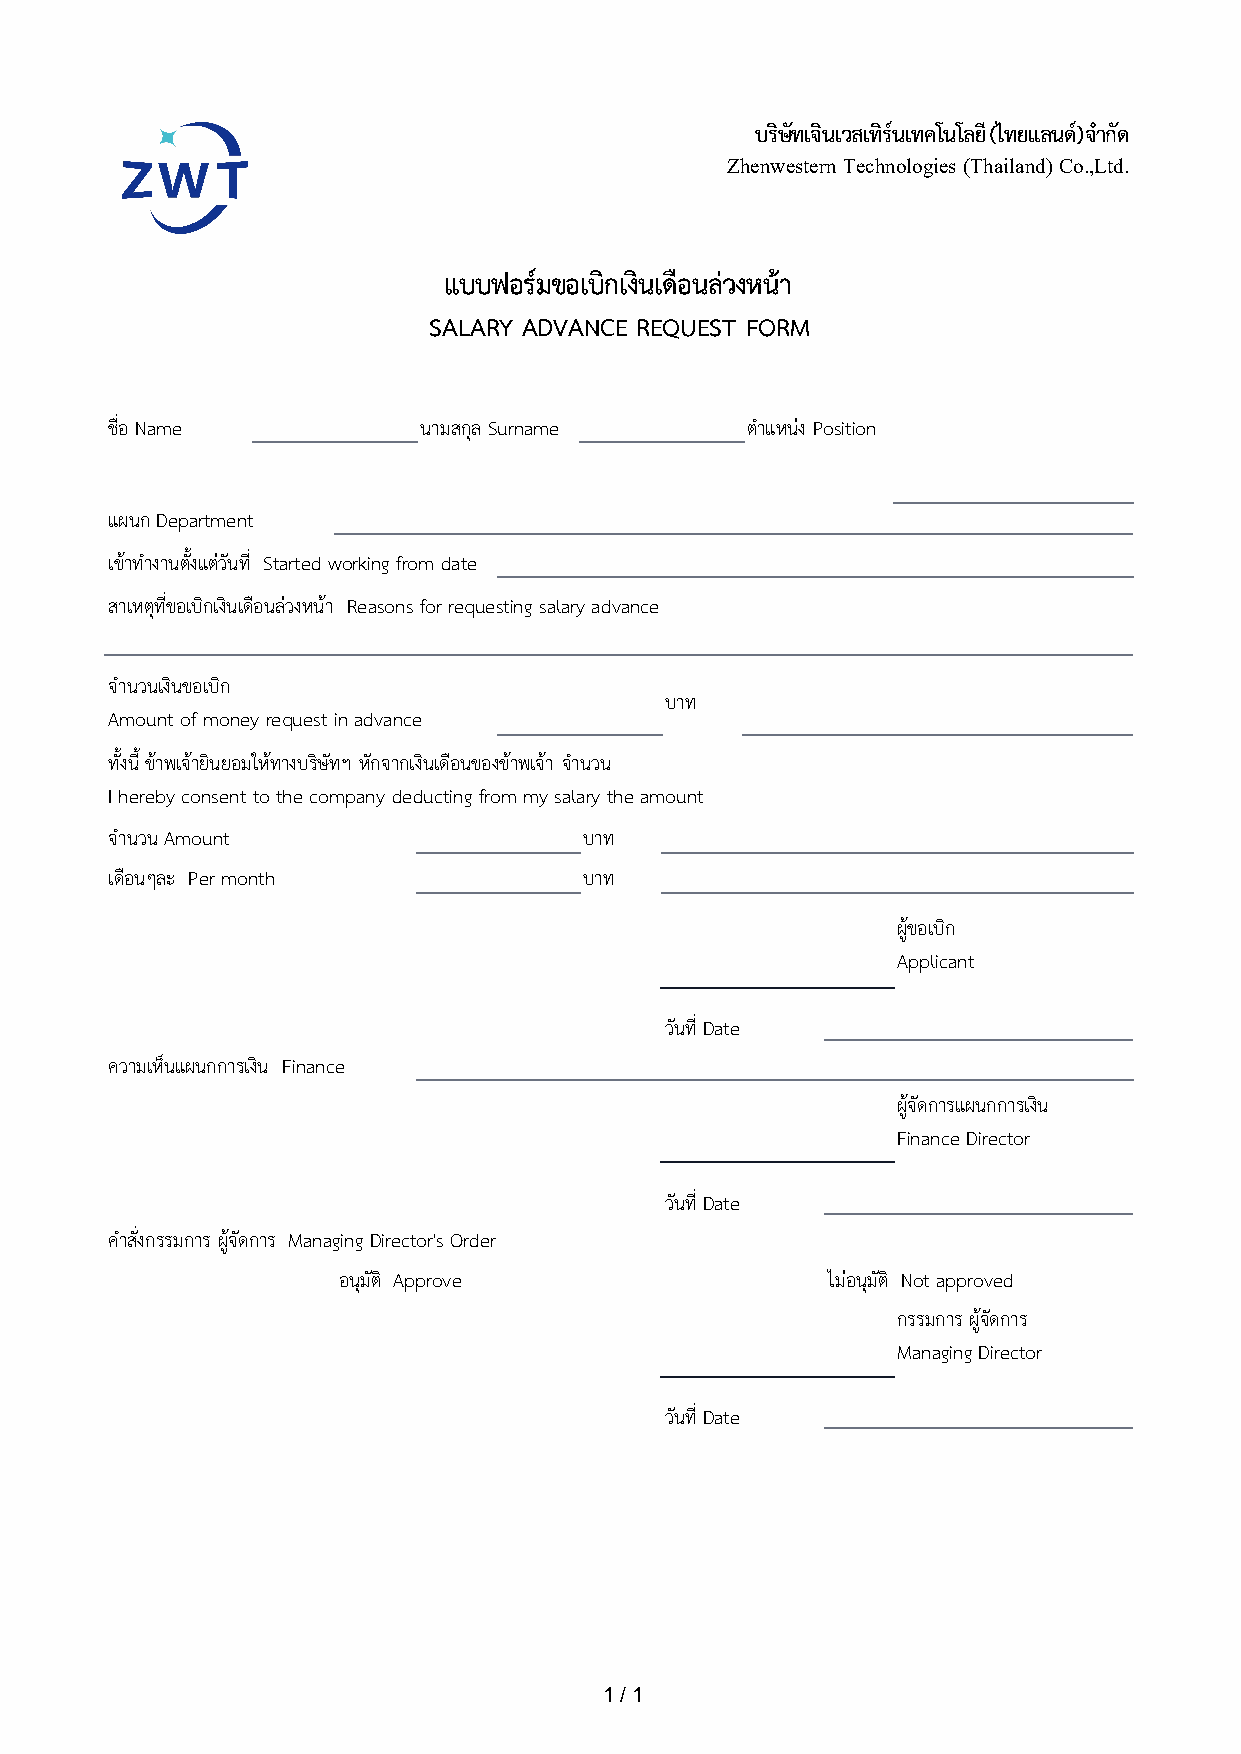
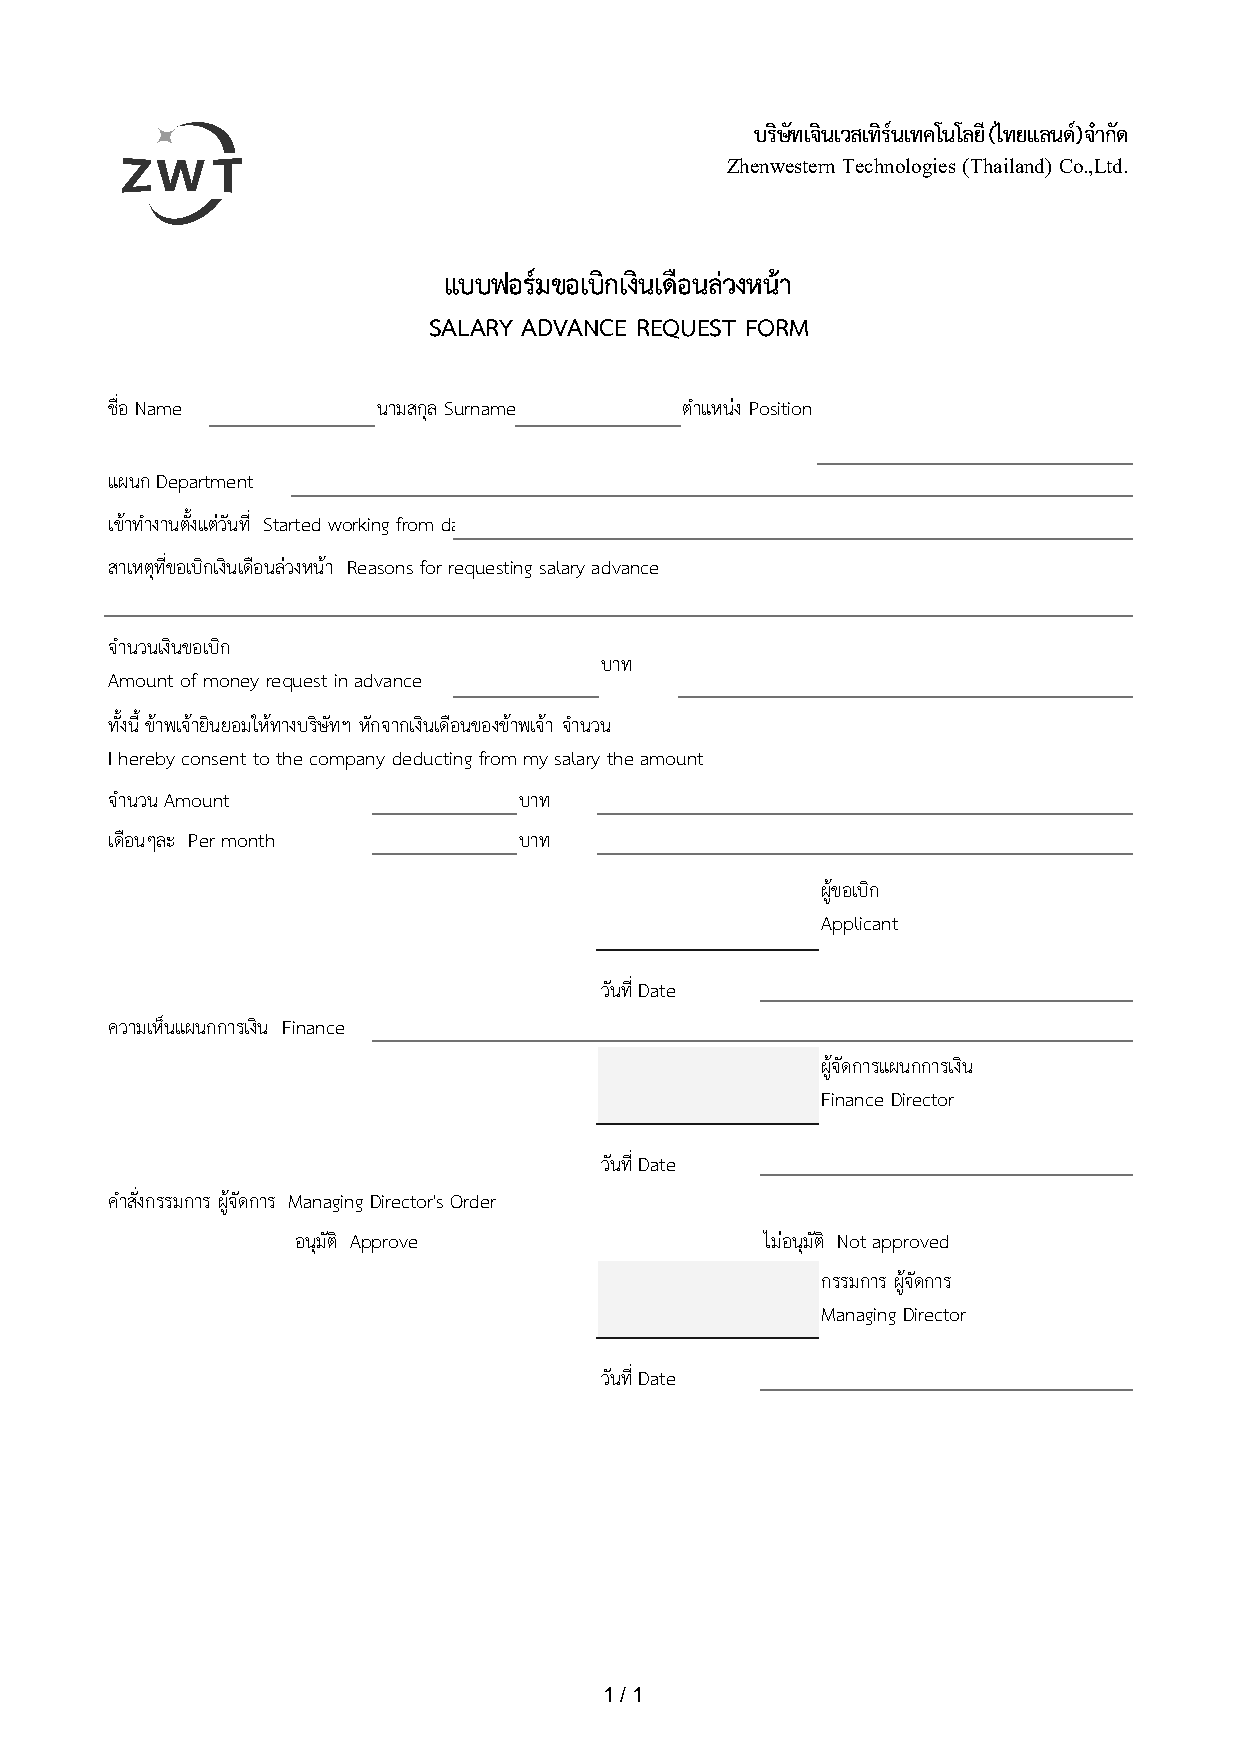
fix(signature): 维护页预览与实际盖章位置对齐，底图改为可重出并钉住来源
工资预支底版在 2026-08-04 重制了四轮（缩左边距、抬首行、重并 H37:J37）。
预览的 leftPercent 跟着更新了，bottomPercent 没有，于是维护页里的签名比
实际出票低约 12.9pt（4.5mm）；三张底图也都停在 08-04 01:46 那一版。

预览是用户唯一能"看见"签名会盖在哪儿的地方。它和后端坐标脱节时，用户按
预览调好的缩放比，出票盖出来是另一个位置，而两边各自都不报错。

- bottomPercent 按 pdf_layout.SIGNATURE_BOXES 重算（34.69→36.22、22.49→23.99）
- 底图改由 scripts/build_signature_preview_backgrounds.py 从当前底版渲染，
  并把源底版的 sha256 记进 signature-preview-backgrounds.json；底图本身
  没法自证新旧（PNG 编码不保证可复现），记来源才能把过期变成可检测的事实
- 渲染改成灰度 + 关抗锯齿：线稿表单压缩率极高，三张由 18/33/56KB 降到
  15.6/21.4/29.2KB，线条反而更锐利
- test_signature_preview_alignment 把前端的四组百分比钉在后端 SIGNATURE_BOX
  上（容差 0.5pt），并校验底图不陈旧。反向验证过：把 bottomPercent 改回
  出事前的值，报出 -12.63pt (-4.45mm)

diff --git a/zwt-finance-system/frontend/src/modules/administration/SignaturePreviewModal.tsx b/zwt-finance-system/frontend/src/modules/administration/SignaturePreviewModal.tsx
@@ -67,12 +67,18 @@ const TEMPLATE_CONFIGS: Record<
       heightPercent: 5.46,
     },
   },
+  // 工资预支底版在 2026-08-04 重制了四轮（缩左边距、抬首行、重并 H37:J37）。
+  // leftPercent 当时跟着更新了，bottomPercent 没有，于是预览里的签名比实际出票
+  // 低了约 12.9pt（4.5mm）。现按 pdf_layout.SIGNATURE_BOXES 重算：
+  //   finance (294.88, 304.91, 90, 28) -> 304.91/841.85 = 36.219%
+  //   md      (294.82, 201.96, 90, 28) -> 201.96/841.85 = 23.990%
+  // tests/test_signature_preview_alignment.py 会把这四组数钉在后端坐标上。
   salary_advance: {
     bgImage: "/salary-advance-template-bg.png",
     title: "工资预支单凭证 (财务负责人签名位置)",
     sigBox: {
       leftPercent: 49.54,
-      bottomPercent: 34.69,
+      bottomPercent: 36.22,
       widthPercent: 15.12,
       heightPercent: 3.33,
     },
@@ -82,7 +88,7 @@ const TEMPLATE_CONFIGS: Record<
     title: "工资预支单凭证 (财务负责人签名位置)",
     sigBox: {
       leftPercent: 49.54,
-      bottomPercent: 34.69,
+      bottomPercent: 36.22,
       widthPercent: 15.12,
       heightPercent: 3.33,
     },
@@ -92,7 +98,7 @@ const TEMPLATE_CONFIGS: Record<
     title: "工资预支单凭证 (董事/总经理签名位置)",
     sigBox: {
       leftPercent: 49.53,
-      bottomPercent: 22.49,
+      bottomPercent: 23.99,
       widthPercent: 15.12,
       heightPercent: 3.33,
     },

diff --git a/zwt-finance-system/backend/tests/test_signature_preview_alignment.py b/zwt-finance-system/backend/tests/test_signature_preview_alignment.py
@@ -1,0 +1,127 @@
+"""签名维护页的预览，必须和真正出票时的盖章位置一致。
+
+预览是用户唯一能"看见"签名会盖在哪儿的地方。它一旦和后端 ReportLab 的坐标脱节，
+用户按预览调好的缩放比，出票时盖出来是另一个位置——而且两边各自都不报错。
+
+2026-08-04 就这么出过一次：工资预支底版当天重制四轮，前端把 leftPercent 更新到了
+新坐标，bottomPercent 忘了改，预览里的签名比实际出票低约 12.9pt（4.5mm）。
+
+前端写的是百分比（相对底图），后端写的是 PDF 点。同一份坐标存在两个地方、
+两种单位，就一定会漂——所以在这里把它们钉在一起。
+"""
+
+from __future__ import annotations
+
+import hashlib
+import json
+import re
+from pathlib import Path
+
+import pytest
+
+from app.modules.salary_advance import pdf_layout as salary_layout
+from app.modules.tax_invoice.document_generator import SIGNATURE_BOX as TAX_INV_BOX
+from app.modules.wht.document_generator import PDF_SIGNATURE_BOX as WHT_BOX
+
+BACKEND_ROOT = Path(__file__).resolve().parents[1]
+FRONTEND_ROOT = BACKEND_ROOT.parent / "frontend"
+PREVIEW_TSX = (
+    FRONTEND_ROOT / "src" / "modules" / "administration" / "SignaturePreviewModal.tsx"
+)
+PUBLIC_DIR = FRONTEND_ROOT / "public"
+BACKGROUND_MANIFEST = PUBLIC_DIR / "signature-preview-backgrounds.json"
+TEMPLATE_DIR = BACKEND_ROOT / "app" / "assets" / "templates"
+
+# 三份底版都是 A4，前端按同一个页面尺寸换算百分比。
+PAGE_WIDTH, PAGE_HEIGHT = 595.25, 841.85
+
+# 允许的偏差。前端只写两位小数，0.01pp 本身就值 0.06pt/0.08pt；
+# 0.5pt(0.18mm) 以内属于写法精度，超过就是真的对不上了。
+TOLERANCE_PT = 0.5
+
+# 前端的 usage 名 -> 后端那个签名框 (x, y, 宽, 高)，单位 PDF 点。
+EXPECTED_BOXES: dict[str, tuple[float, float, float, float]] = {
+    "wht": WHT_BOX,
+    "tax_inv": TAX_INV_BOX,
+    # 通用 salary_advance 预览的是财务位（与 SignaturePreviewModal 的标题一致）。
+    "salary_advance": salary_layout.SIGNATURE_BOXES["finance"],
+    "salary_advance_finance": salary_layout.SIGNATURE_BOXES["finance"],
+    "salary_advance_md": salary_layout.SIGNATURE_BOXES["md"],
+}
+
+_ENTRY = re.compile(
+    r"(?P<usage>\w+):\s*\{\s*"
+    r"bgImage:.*?"
+    r"sigBox:\s*\{\s*"
+    r"leftPercent:\s*(?P<left>[\d.]+),\s*"
+    r"bottomPercent:\s*(?P<bottom>[\d.]+),\s*"
+    r"widthPercent:\s*(?P<width>[\d.]+),\s*"
+    r"heightPercent:\s*(?P<height>[\d.]+),?\s*\}",
+    re.DOTALL,
+)
+
+
+def _frontend_boxes() -> dict[str, dict[str, float]]:
+    source = PREVIEW_TSX.read_text(encoding="utf-8")
+    found = {
+        match.group("usage"): {
+            key: float(match.group(key))
+            for key in ("left", "bottom", "width", "height")
+        }
+        for match in _ENTRY.finditer(source)
+    }
+    assert found, (
+        f"没能从 {PREVIEW_TSX.name} 里解析出任何 sigBox。"
+        "改了 TEMPLATE_CONFIGS 的写法就要同步改这里的正则——"
+        "解析不到会让这条测试静默失效。"
+    )
+    return found
+
+
+def test_preview_covers_every_signature_usage() -> None:
+    """前端少配一个 usage，那个单据的预览就会退化成默认模板，必须拦住。"""
+    missing = sorted(set(EXPECTED_BOXES) - set(_frontend_boxes()))
+    assert not missing, f"SignaturePreviewModal 缺这些 usage 的预览配置：{missing}"
+
+
+@pytest.mark.parametrize("usage", sorted(EXPECTED_BOXES))
+def test_preview_box_matches_backend_stamp_box(usage: str) -> None:
+    box = _frontend_boxes()[usage]
+    x, y, width, height = EXPECTED_BOXES[usage]
+    for label, actual_pt, expected_pt in (
+        ("left", box["left"] / 100 * PAGE_WIDTH, x),
+        ("bottom", box["bottom"] / 100 * PAGE_HEIGHT, y),
+        ("width", box["width"] / 100 * PAGE_WIDTH, width),
+        ("height", box["height"] / 100 * PAGE_HEIGHT, height),
+    ):
+        drift = actual_pt - expected_pt
+        assert abs(drift) <= TOLERANCE_PT, (
+            f"{usage} 的预览 {label} 与后端盖章框差 {drift:+.2f}pt "
+            f"({drift * 25.4 / 72:+.2f}mm)：\n"
+            f"  预览 {actual_pt:.2f}pt / 后端 {expected_pt:.2f}pt\n"
+            f"  应写 {expected_pt / (PAGE_WIDTH if label in ('left', 'width') else PAGE_HEIGHT) * 100:.2f}"
+        )
+
+
+def test_preview_backgrounds_are_rendered_from_the_current_plates() -> None:
+    """底图是底版的一张照片，底版重制后不重出就会静默过期。
+
+    底图本身没法自证新旧（PNG 编码不保证可复现），所以记的是源底版的 sha256。
+    """
+    assert BACKGROUND_MANIFEST.is_file(), (
+        f"缺 {BACKGROUND_MANIFEST.name}；"
+        "跑 scripts/build_signature_preview_backgrounds.py 生成。"
+    )
+    manifest = json.loads(BACKGROUND_MANIFEST.read_text(encoding="utf-8"))
+    stale: list[str] = []
+    for png_name, entry in manifest["backgrounds"].items():
+        assert (PUBLIC_DIR / png_name).is_file(), f"底图 {png_name} 不存在"
+        plate = TEMPLATE_DIR / entry["source"]
+        actual = hashlib.sha256(plate.read_bytes()).hexdigest()
+        if actual != entry["sourceSha256"]:
+            stale.append(f"{png_name}（源 {entry['source']} 已变）")
+    assert not stale, (
+        "这些签名预览底图是用旧底版渲染的：" + "、".join(stale) + "\n"
+        "重制过底版就要重出底图："
+        "python ..\\scripts\\build_signature_preview_backgrounds.py"
+    )

diff --git a/zwt-finance-system/scripts/build_signature_preview_backgrounds.py b/zwt-finance-system/scripts/build_signature_preview_backgrounds.py
@@ -1,0 +1,115 @@
+r"""把三份 PDF 底版渲染成签名预览用的底图 PNG，并记下各自的源底版 sha256。
+
+    cd zwt-finance-system\backend
+    .\.venv\Scripts\python.exe ..\scripts\build_signature_preview_backgrounds.py
+
+为什么要有清单文件：底图是"底版的一张照片"，底版一重制它就过期，但过期的底图
+看上去完全正常——只是签名画在了错的位置上。2026-08-04 就这么出过一次：底版当天
+重制了四轮，底图还停在凌晨那一版，于是维护页预览里的签名比实际出票低了 4.5mm。
+把源底版的 sha 写进 signature-preview-backgrounds.json，
+tests/test_signature_preview_alignment.py 就能把这种漂移变成一条红测试。
+
+渲染尺寸固定 150 DPI（A4 → 1241x1754），与首版底图一致；预览是按百分比定位的，
+换尺寸不会影响签名落点，但换了会让 git diff 变成整张图重写。
+"""
+
+from __future__ import annotations
+
+import argparse
+import hashlib
+import json
+from pathlib import Path
+
+BACKEND_ROOT = Path(__file__).resolve().parents[1] / "backend"
+TEMPLATE_DIR = BACKEND_ROOT / "app" / "assets" / "templates"
+PUBLIC_DIR = Path(__file__).resolve().parents[1] / "frontend" / "public"
+MANIFEST = PUBLIC_DIR / "signature-preview-backgrounds.json"
+
+RENDER_DPI = 150
+
+# 底图名 -> 源底版。工资预支的两个角色共用同一张底图（同一页上下两个签名位）。
+SOURCES: dict[str, str] = {
+    "wht-template-bg.png": "WHT-Template.pdf",
+    "tax-inv-template-bg.png": "TAX-INV-Template.pdf",
+    "salary-advance-template-bg.png": "Salary-Advance-Template.pdf",
+}
+
+
+def sha256_of(path: Path) -> str:
+    return hashlib.sha256(path.read_bytes()).hexdigest()
+
+
+def render(pdf_path: Path, png_path: Path) -> tuple[int, int]:
+    import pypdfium2
+
+    document = pypdfium2.PdfDocument(str(pdf_path))
+    try:
+        page = document[0]
+        # 底版是线稿表单：灰度 + 关掉抗锯齿，输出接近二值，PNG 压缩率极高
+        # （实测 WHT 由彩色 256 色的 167KB 降到 29KB），线条反而更锐利。
+        # scale 是相对 72 DPI 的倍数。
+        bitmap = page.render(
+            scale=RENDER_DPI / 72,
+            grayscale=True,
+            no_smoothtext=True,
+            no_smoothpath=True,
+            no_smoothimage=True,
+        )
+        image = bitmap.to_pil().convert("L")
+    finally:
+        document.close()
+    image.convert("P", palette=1, colors=16).save(png_path, optimize=True)
+    return image.size
+
+
+def build(*, check_only: bool = False) -> int:
+    manifest: dict[str, dict[str, str]] = {}
+    stale: list[str] = []
+    previous: dict[str, dict[str, str]] = {}
+    if MANIFEST.is_file():
+        previous = json.loads(MANIFEST.read_text(encoding="utf-8")).get("backgrounds", {})
+
+    for png_name, pdf_name in SOURCES.items():
+        pdf_path = TEMPLATE_DIR / pdf_name
+        png_path = PUBLIC_DIR / png_name
+        if not pdf_path.is_file():
+            raise SystemExit(f"底版不存在：{pdf_path}")
+        source_sha = sha256_of(pdf_path)
+        recorded = previous.get(png_name, {}).get("sourceSha256")
+        if recorded != source_sha or not png_path.is_file():
+            stale.append(png_name)
+            if not check_only:
+                width, height = render(pdf_path, png_path)
+                print(f"rendered {png_name}  {width}x{height}  <- {pdf_name}")
+        manifest[png_name] = {"source": pdf_name, "sourceSha256": source_sha}
+
+    if check_only:
+        if stale:
+            print("以下底图与当前底版不一致：" + "、".join(stale))
+            return 1
+        print("所有签名预览底图都是最新的。")
+        return 0
+
+    MANIFEST.write_text(
+        json.dumps({"renderDpi": RENDER_DPI, "backgrounds": manifest},
+                   ensure_ascii=False, indent=2) + "\n",
+        encoding="utf-8",
+    )
+    print(f"manifest={MANIFEST}")
+    if not stale:
+        print("（底版没变，底图无需重渲染）")
+    return 0
+
+
+def main() -> None:
+    parser = argparse.ArgumentParser()
+    parser.add_argument(
+        "--check",
+        action="store_true",
+        help="只检查底图是否与底版一致，不重新渲染；不一致时以非 0 退出。",
+    )
+    raise SystemExit(build(check_only=parser.parse_args().check))
+
+
+if __name__ == "__main__":
+    main()
